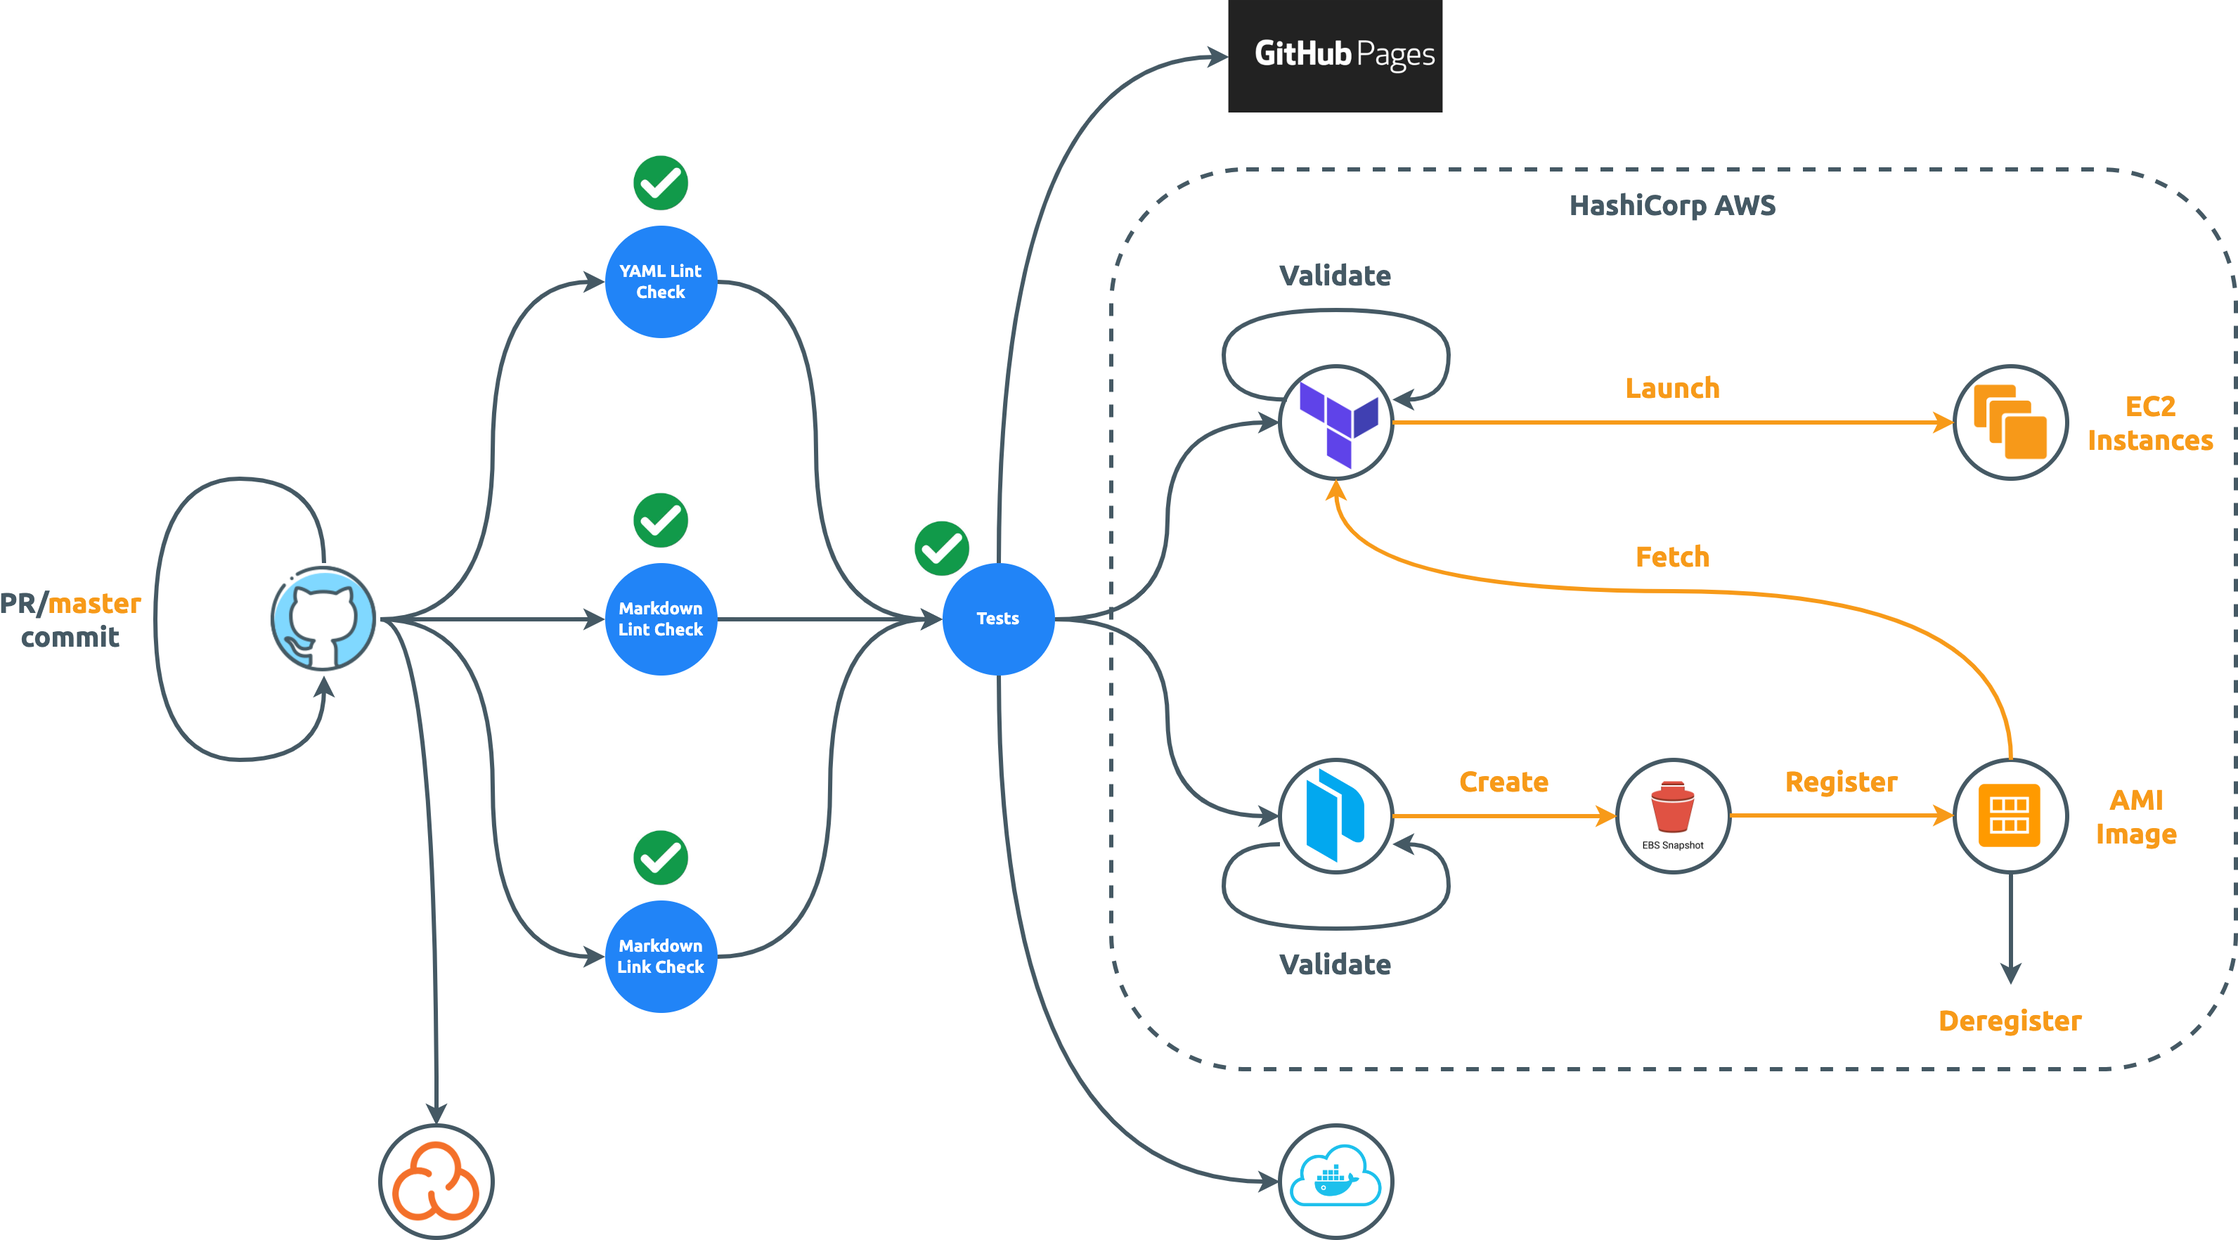
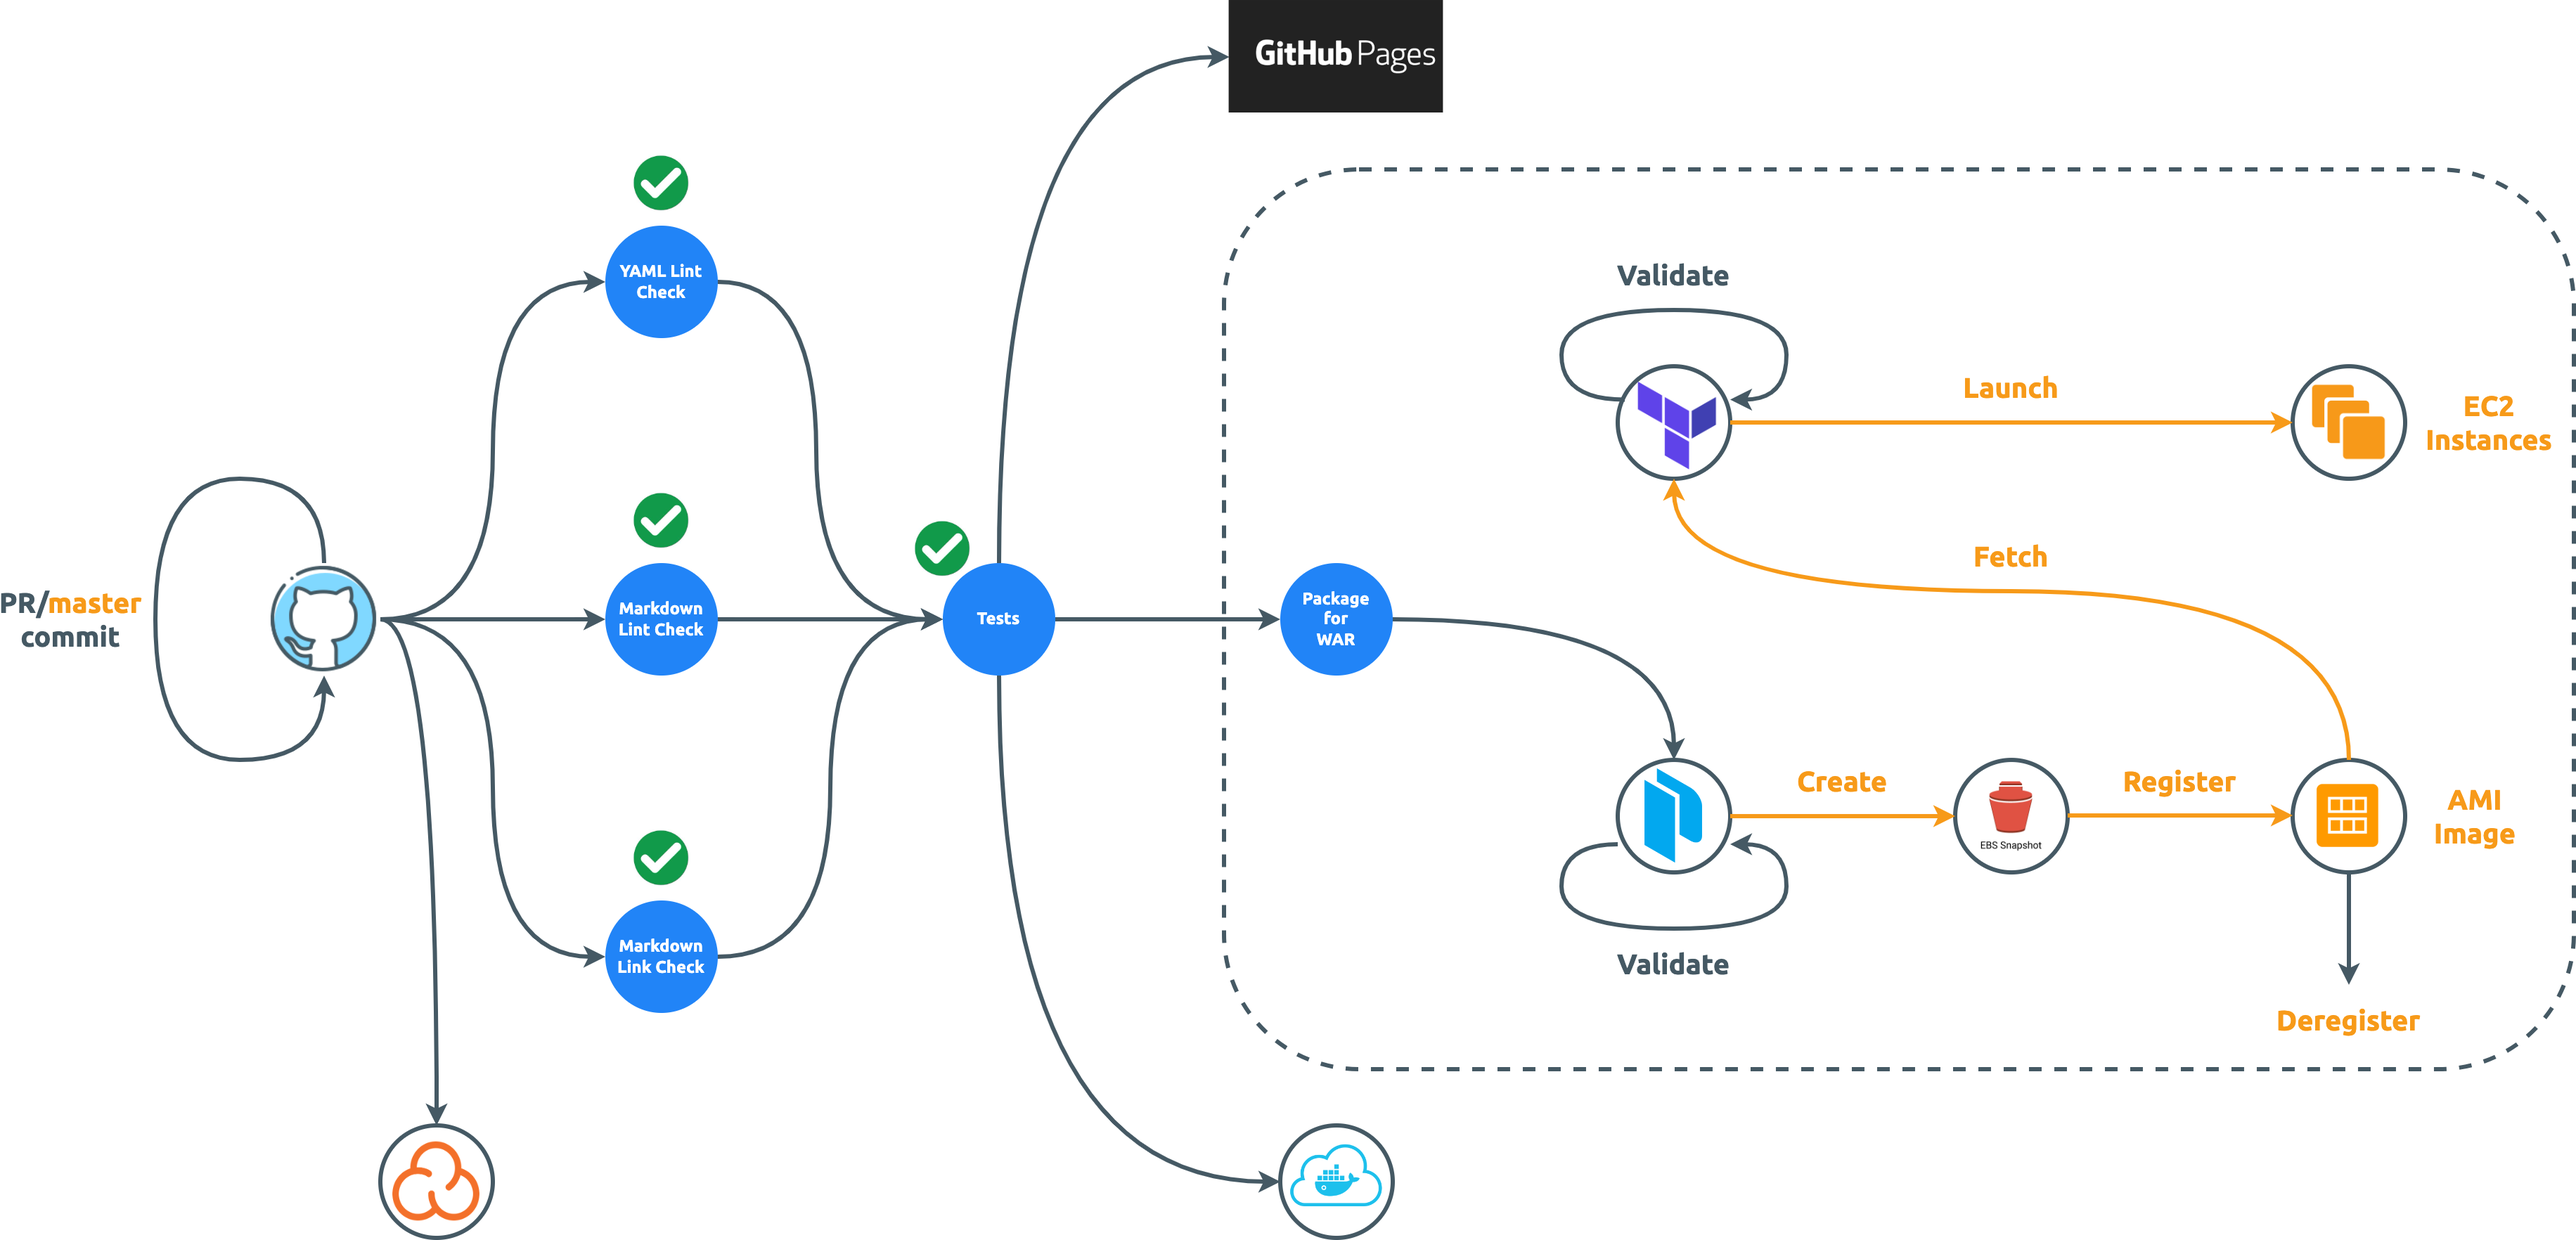
Enhance documentation (#31)

diff --git a/src/main/java/com/qubitpi/ws/jersey/template/web/filters/CorsFilter.java b/src/main/java/com/qubitpi/ws/jersey/template/web/filters/CorsFilter.java
@@ -35,7 +35,7 @@ public class CorsFilter implements ContainerResponseFilter {
         response.getHeaders().add("Access-Control-Allow-Credentials", "true");
         response.getHeaders().add(
                 "Access-Control-Allow-Methods",
-                "GET, POST, PUT, DELETE, OPTIONS, HEAD"
+                "GET, POST, PUT, DELETE, OPTIONS, HEAD, PATCH"
         );
     }
 }

diff --git a/docs/docs/elide.md b/docs/docs/elide.md
@@ -1,11 +1,10 @@
 ---
 sidebar_position: 6
-title: Elide Middleware
+title: JPA through Elide Middleware
 ---
 
-Template can delegate JPA persistence to [Elide].
-
-Configuring Elide requires 2 [bindings][what is binding]:
+[Jersey Webservice Template] (_JWT_) delegates JPA capabilities to [Elide] and configures Elide through 2 required
+Elide [bindings][what is binding]:
 
 1. **[Elide][Elide instance class]**
 2. **[ElideSettings][ElideSettings instance class]** with 2 extra sub-bindings:
@@ -15,66 +14,110 @@ Configuring Elide requires 2 [bindings][what is binding]:
 
 The binding is referencing [Elide Standalone] in the following way:
 
+:::danger
+
+Although the Jersey binder wraps HK2 binder, we
+[must pick the _Jersey binder_ for binding Elide resources](https://github.com/QubitPi/jersey-ws-template/pull/29/files#diff-afa024cc2643aaf681db505cac24b8601c94931290718993392e7726001b1559L39-R40),
+otherwise, dependency injection will flaky and not right.
+
+:::
+
 ![Error loading resource-binding.png](./img/resource-binding.png)
 
-To inject Elide model package, simply put the models in a separate JAR and include it as a dependency in POM. If the
-model package is internal and cannot be visible publicly, either make the webservice project private or public with
-env variable masking, for example:
+Running Webservice in Docker Compose
+------------------------------------
+
+### Step 1: Defining Data Models
+
+To inject [Elide model package](https://github.com/yahoo/elide/tree/master/elide-standalone#create-models), simply put
+the models in a separate JAR and include it as a dependency in POM. If the model package is internal and cannot be
+visible publicly, either make the webservice project private or public with env variable masking, for example:
 
 ```xml
-<dependencies>
-    <dependency>
-        <groupId>${env.MODEL_PACKAGE_JAR_GROUP_ID}</groupId>
-        <artifactId>${env.MODEL_PACKAGE_JAR_ARTIFACT_ID}</artifactId>
-        <version>${env.MODEL_PACKAGE_JAR_VERSION}</version>
-    </dependency>
-</dependencies>
+    <dependencies>
+        <dependency>
+            <groupId>${env.MODEL_PACKAGE_JAR_GROUP_ID}</groupId>
+            <artifactId>${env.MODEL_PACKAGE_JAR_ARTIFACT_ID}</artifactId>
+            <version>${env.MODEL_PACKAGE_JAR_VERSION}</version>
+        </dependency>
+    </dependencies>
+
+    ...
+
+    <repositories>
+        <repository>
+            <id>${env.MODEL_PACKAGE_REPO_ID}</id>
+            <name>JPA model pacakge JAR repository</name>
+            <url>${env.MODEL_PACKAGE_REPO_URL}</url>
+        </repository>
+    </repositories>
 ```
 
 ```bash
 export MODEL_PACKAGE_JAR_GROUP_ID=com.mycompnay
 export MODEL_PACKAGE_JAR_ARTIFACT_ID=my-model-package
 export MODEL_PACKAGE_JAR_VERSION=1.0.7
+
+export MODEL_PACKAGE_REPO_ID=my-repo-id
+export MODEL_PACKAGE_REPO_URL=https://private.mvnrepository.com/artifact/com.company/my-model-package
 ```
+
+### Step 2: Spinning Up Docker Compose
+
+Jersey WS Template can run in [Docker Compose] for the following purposes
+
+1. Decoupling frontend and backend developments
+2. Making it easy to run E2E testing of Jersey WS Template-backed application in CI/CD
 
 :::caution
 
-The jetty-base should be initialized with
-
-```bash
-java -jar $JETTY_HOME/start.jar --add-module=annotations,server,http,deploy,servlet,webapp,resources,jsp,websocket
-```
-
-In addition, before running webservice, the environment variable **MODEL_PACKAGE_NAME** must be set. For example:
-
-```bash
-export MODEL_PACKAGE_NAME=com.mycompnay.models
-```
+Docker Compose designed here is intended for local development and testing purposes ONLY! _It is strongly discouraged
+to run this Docker Compose in production!_
 
 :::
 
-Example POST via JSON API:
+![Error Loading docker-compose.png](./img/docker-compose.png)
+
+Simply run:
 
 ```bash
-curl -X POST http://localhost:8080/v1/data/EntityType \
-  -H "Content-Type: application/vnd.api+json" \
-  -H "Accept: application/vnd.api+json" \
-  -d '{"data": {"type": "EntityType", "id": "elide-demo"}}'
+git clone https://github.com/QubitPi/jersey-ws-template.git
+cd jersey-ws-template
+git checkout jpa-elide
+mvn clean package
+MODEL_PACKAGE_NAME=$JWT_MODEL_PACKAGE_NAME docker compose up --build --force-recreate
 ```
 
-Troubleshooting
----------------
+where `$JWT_MODEL_PACKAGE_NAME` is the package in config JAR that contains all
+[elide models](https://elide.io/pages/guide/v7/02-data-model.html). It can be set, for example, at command line with:
+
+```bash
+export JWT_MODEL_PACKAGE_NAME=com.mycompany.jwt.models
+```
+
+The variable will be [passed](https://stackoverflow.com/a/58900415) into Docker Compose file.
+
+### Troubleshooting
+
+#### Database Does Not Have My Model Packages's Bean Table
+
+_If tests is running in IntelliJ IDE_, make sure the model package JAR it is in IDE's **External Libraries**
+
+Otherwise, the dependency injection didn't find a bean class under the package specified by
+[JWT_MODEL_PACKAGE_NAME](#step-1-defining-data-models)
 
 ### Entity Missing Default Constructor
 
 ```bash
-13:17:52.396 [main] INFO  o.h.m.i.EntityInstantiatorPojoStandard - HHH000182: No default (no-argument) constructor for
+[main] INFO  o.h.m.i.EntityInstantiatorPojoStandard - HHH000182: No default (no-argument) constructor for
 class: ... (class must be instantiated by Interceptor)
 ```
 
+Simply add a no-args constructor to the bean class.
+
 ### How to Exclude GraphQL Feature
 
-To optionally disable GraphQL endpoints, simply exclude corresponding dependencies in POM. For example:
+To optionally disable GraphQL endpoints, exclude corresponding dependencies in POM. For example:
 
 ```xml
         <dependency>
@@ -90,13 +133,11 @@ To optionally disable GraphQL endpoints, simply exclude corresponding dependenci
         </dependency>
 ```
 
-[BinderFactory]: https://github.com/QubitPi/jersey-ws-template/blob/jpa-elide/src/main/java/com/qubitpi/ws/jersey/template/application/BinderFactory.java
-
 [Elide]: https://elide.io/
 [Elide instance class]: https://github.com/yahoo/elide/blob/master/elide-core/src/main/java/com/yahoo/elide/Elide.java
 [Elide Standalone]: https://github.com/yahoo/elide/tree/master/elide-standalone
 [ElideSettings instance class]: https://github.com/yahoo/elide/blob/master/elide-core/src/main/java/com/yahoo/elide/ElideSettings.java
 
-[ResourceConfig]: https://github.com/QubitPi/jersey-ws-template/blob/jpa-elide/src/main/java/com/qubitpi/ws/jersey/template/application/ResourceConfig.java
+[Jersey Webservice Template]: https://qubitpi.github.io/jersey-ws-template/
 
 [what is binding]: https://qubitpi.github.io/jersey/ioc.html

diff --git a/docs/docs/development.md b/docs/docs/development.md
@@ -3,43 +3,10 @@ sidebar_position: 3
 title: Development
 ---
 
-Running Webservice in Docker Compose
-------------------------------------
-
-### Defining Data Models
-
-Jersey WS Template can run in [Docker Compose] for the following purposes
-
-1. Decoupling frontend and backend development
-2. Easily integrating application backed by Jersey WS Template testing in CI/CD
-
-![Error Loading docker-compose.png](./img/docker-compose.png)
-
-```bash
-git clone https://github.com/QubitPi/jersey-ws-template.git
-cd jersey-ws-template
-git checkout jpa-elide
-mvn clean package
-MODEL_PACKAGE_NAME=$JWT_MODEL_PACKAGE_NAME docker compose up --build --force-recreate
-```
-
-where `$JWT_MODEL_PACKAGE_NAME` is the package in config JAR that contains all
-[elide models](https://elide.io/pages/guide/v7/02-data-model.html). It can be set, for example, at command line with:
-
-```bash
-export JWT_MODEL_PACKAGE_NAME=com.mycompany.jwt.models
-```
-
-The variable will be [passed](https://stackoverflow.com/a/58900415) into Docker Compose file.
-
-### Troubleshooting
-
-#### Database Does Not Contain Model Packages's Bean Table
-
-_If tests is running in IDE_, make sure the model package JAR it is in IDE's **External Libraries**
-
 Running Tests
 -------------
+
+The following commands runs both unit and integration tests
 
 ```bash
 mvn clean verify
@@ -55,7 +22,7 @@ Packaging
 mvn clean package
 ```
 
-A [**WAR** file](https://en.wikipedia.org/wiki/WAR_(file_format)) named `jersey-ws-template-1.0-SNAPSHOT.war` will
+A [WAR file](https://en.wikipedia.org/wiki/WAR_(file_format)) named **jersey-ws-template-1.0-SNAPSHOT.war** will
 be generated under _target_ directory for [running in Jetty](#running-in-standalone-jetty)
 
 Running Webservice in Standalone Jetty (Production)
@@ -64,13 +31,7 @@ Running Webservice in Standalone Jetty (Production)
 ### Download Jetty
 
 At [download page](https://www.eclipse.org/jetty/download.php), pick up a `.tgz` distribution. **It is very important
-to pick up Jetty server version that matches JDK version**. For JDK **17**, it's been tested that Jetty _11.0.15_ works
-
-:::note
-
-During testing, the embedded Jetty version is also 11.0.15
-
-:::
+to pick up Jetty server version that matches JDK version**. For JDK **17**, it's been tested that Jetty _11.0.15_ worked
 
 Hence, we will use "11.0.15" release as an example:
 
@@ -109,12 +70,6 @@ Lastly, drop the [WAR file](#packaging) into **/path/to/jetty-base/webapps** dir
 ```bash
 mv /path/to/war-file /path/to/jetty-base/webapps/ROOT.war
 ```
-
-### Configuring Webservice
-
-#### Define Model Package
-
-#### Set Application Properties
 
 ### Running Webservice
 

diff --git a/docs/docs/setup.md b/docs/docs/setup.md
@@ -3,6 +3,8 @@ sidebar_position: 2
 title: Setup
 ---
 
+This section discusses the one-time setup in order to develop [Jersey Webservice Template].
+
 Prepare for Local Development
 -----------------------------
 
@@ -56,7 +58,7 @@ OpenJDK 64-Bit Server VM (build 17.0.10+9, mixed mode)
 
 ### Installing Docker Engine
 
-[Jersey Webservice Template][jersey-ws-template] has [Docker-based integration tests][Docker-based integration tests];
+[Jersey Webservice Template] has [Docker-based integration tests][Docker-based integration tests];
 it also supports [running template webserivce in Docker][jersey-ws-template Dockerfile]. Docker can be installed by
 following its [official instructions](https://docs.docker.com/desktop/install/mac-install/)
 
@@ -64,7 +66,7 @@ Getting Source Code
 -------------------
 
 ```bash
-https://github.com/QubitPi/jersey-ws-template.git
+git clone git@github.com:QubitPi/jersey-ws-template.git
 cd jersey-ws-template
 ```
 
@@ -73,15 +75,7 @@ cd jersey-ws-template
 For the moment, we have distilled the most important code style conventions with respect to jersey-ws-template's code as
 IntelliJ settings. If IntelliJ is used for IDE, we may import these code style settings by importing the
 [Jersey-WS-Template-Project-intellij-code-style.xml][style config] file in the root of the repo. The setting for the
-project will appear as a new Scheme named Jersey-WS-Template-Project under IDE's `Editor -> Code Style` section.
-
-Removing Unneeded Classes
--------------------------
-
-[Jersey Webservice Template][jersey-ws-template] comes with common classes many webservices need, such as those
-implementing caching feature. _Remove them if not needed_:
-
-- [Caching][Caching] and [its tests][Caching tests]
+project will appear as a new Scheme named "Jersey-WS-Template-Project" under IDE's `Editor -> Code Style` section.
 
 Modifying Templates
 -------------------
@@ -106,7 +100,7 @@ Modifying Templates
 
 [endpoint package]: https://github.com/QubitPi/jersey-ws-template/blob/master/src/main/java/com/qubitpi/ws/jersey/template/application/ResourceConfig.java
 
-[jersey-ws-template]: https://github.com/QubitPi/jersey-ws-template
+[Jersey Webservice Template]: https://qubitpi.github.io/jersey-ws-template/
 [jersey-ws-template Dockerfile]: https://github.com/QubitPi/jersey-ws-template/blob/master/Dockerfile
 
 [style config]: https://github.com/QubitPi/jersey-ws-template/blob/master/Jersey-WS-Template-Project-intellij-code-style.xml

diff --git a/docs/docs/ci-cd.md b/docs/docs/ci-cd.md
@@ -5,28 +5,6 @@ title: CI/CD
 
 ![Error loading ci-cd.png](./img/ci-cd.png)
 
-:::caution
-
-[Never use SonarCloud Caching](https://github.com/paion-data/astraios/pull/9), otherwise the dependency injection will
-get screwed up. i.e. The following snippet will never go to GitHub Action script
-
-```xml
-      - name: Cache SonarCloud packages
-        uses: actions/cache@v1
-        with:
-          path: ~/.sonar/cache
-          key: ${{ runner.os }}-sonar
-          restore-keys: ${{ runner.os }}-sonar
-      - name: Cache Maven packages
-        uses: actions/cache@v1
-        with:
-          path: ~/.m2
-          key: ${{ runner.os }}-m2-${{ hashFiles('**/pom.xml') }}
-          restore-keys: ${{ runner.os }}-m2
-```
-
-:::
-
 The following [GitHub Secrets][How to set up GitHub Action Secrets] needs to be defined
 
 - [**SONAR_TOKEN**](https://sonarcloud.io/project/overview?id=QubitPi_jersey-ws-template)
@@ -63,6 +41,36 @@ The following [GitHub Secrets][How to set up GitHub Action Secrets] needs to be 
 
 - Update `"EC2 Instance Name"` and `"Security Group Name"` in [Terraform config file][HashiCorp Terraform config file]
   accordingly
+
+### JPA through Elide
+
+- **APPLICATION_PROPERTIES** The _application.properties_ file content that will be put under _src/main/resources/_
+  directory by CI/CD
+- **JPADATASTORE_PROPERTIES** The _jpadatastore.properties_ file content that will be put under _src/main/resources/_
+  directory
+
+Note that if model package is from an internal Maven repo which requires authentication, we can insert a _settings.xml_
+generating step using [create-mvn-settings]. For example:
+
+```yml
+  hashicorp:
+    name: Generated Webservice WAR in GitHub Action, and Publish Template AMI Image and Deploy it to EC2 through HashiCorp
+    needs: tests
+    runs-on: ubuntu-latest
+    steps:
+      ...
+
+      - name: Generate Maven settings.xml
+        uses: ./.github/actions/create-mvn-settings
+        with:
+          internal-maven-repo-server-id: ${{ secrets.INTERNAL_MAVEN_REPO_SERVER_ID }}
+          internal-maven-repo-user: ${{ secrets.INTERNAL_MAVEN_REPO_USER }}
+          internal-maven-repo-token: ${{ secrets.INTERNAL_MAVEN_REPO_TOKEN }}
+
+      ...
+```
+
+[create-mvn-settings]: https://github.com/QubitPi/jersey-ws-template/blob/jpa-elide/.github/actions/create-mvn-settings/action.yml
 
 [docker hub]: https://hub.docker.com/r/jack20191124/jersey-ws-template/
 
